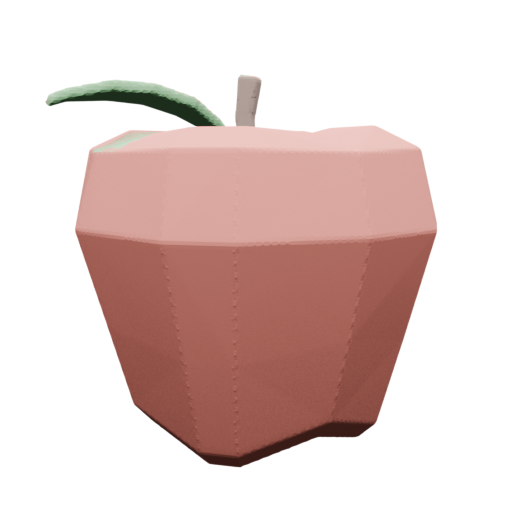
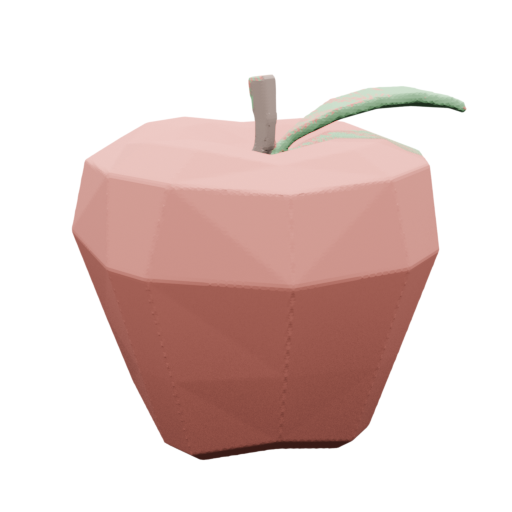
Frontal example views; prep fill 0.72 (median framing of the training renders)
Claude-Session: https://claude.ai/code/session_01DZ2GyX4pDZDuc8HWguKm5P

diff --git a/scripts/img2mesh.py b/scripts/img2mesh.py
@@ -15,7 +15,7 @@ if __name__ == "__main__":
     ap.add_argument("--in_dir", help="prep: folder of input images (.png, .jpg, .jpeg, .webp)")
     ap.add_argument("--out", required=True, help="output folder; each stage reads the results of the previous one from it")
     ap.add_argument("--seed", type=int, default=0, help="voxel and mesh: random seed")
-    ap.add_argument("--fill", type=float, default=0.74,
+    ap.add_argument("--fill", type=float, default=0.72,
                     help="prep: fraction of the image covered by the longest side of the object")
     ap.add_argument("--spec", default="voxelgen64",
                     help="voxel: voxelgen64 (the released model) or voxelgen64_trained (a checkpoint of your own training)")

diff --git a/README.md b/README.md
@@ -132,7 +132,7 @@ Options:
                       mesh: turn the structure into a mesh with the second stage of TRELLIS.2
     --out             Output folder. Each stage reads the results of the previous one from it
     --in_dir          prep: folder of input images (.png, .jpg, .jpeg, .webp)
-    --fill            prep: fraction of the image covered by the longest side of the object (default 0.74)
+    --fill            prep: fraction of the image covered by the longest side of the object (default 0.72)
     --seed            voxel, mesh: random seed (default 0)
     --spec            voxel: voxelgen64 (the released model, default) or voxelgen64_trained (your checkpoint)
     --step            voxel: checkpoint step, only with voxelgen64_trained
